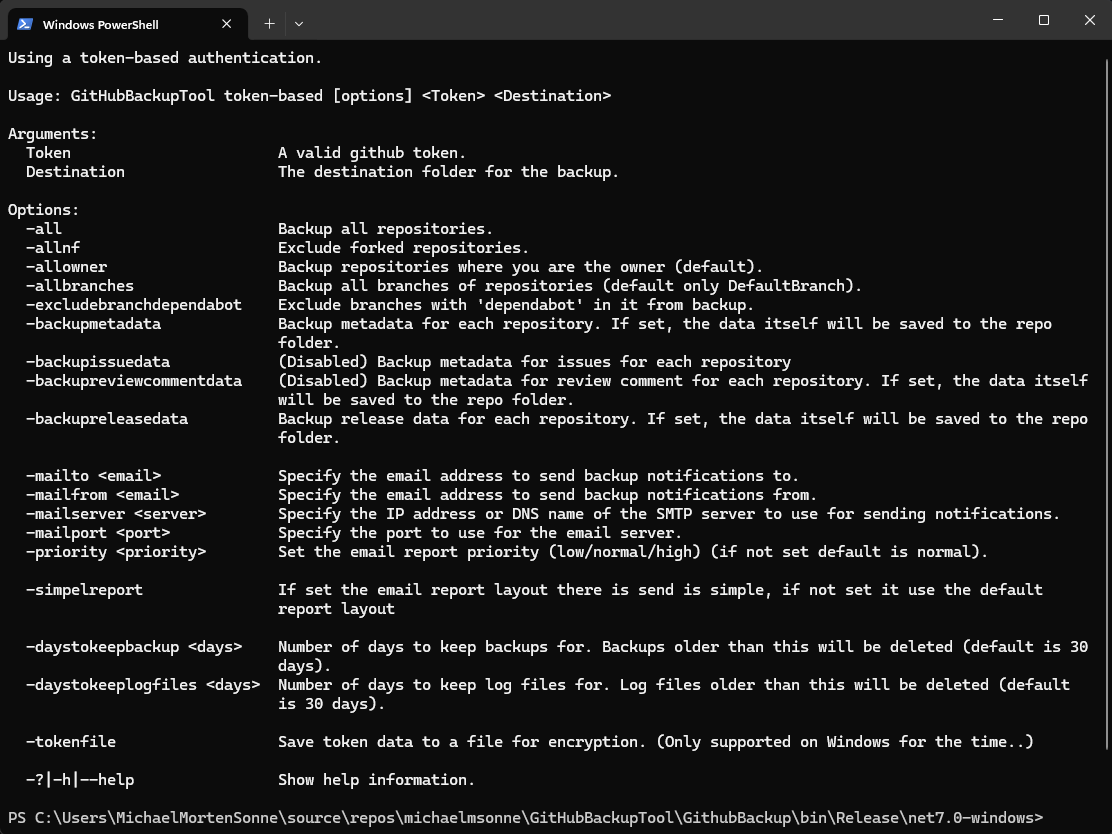
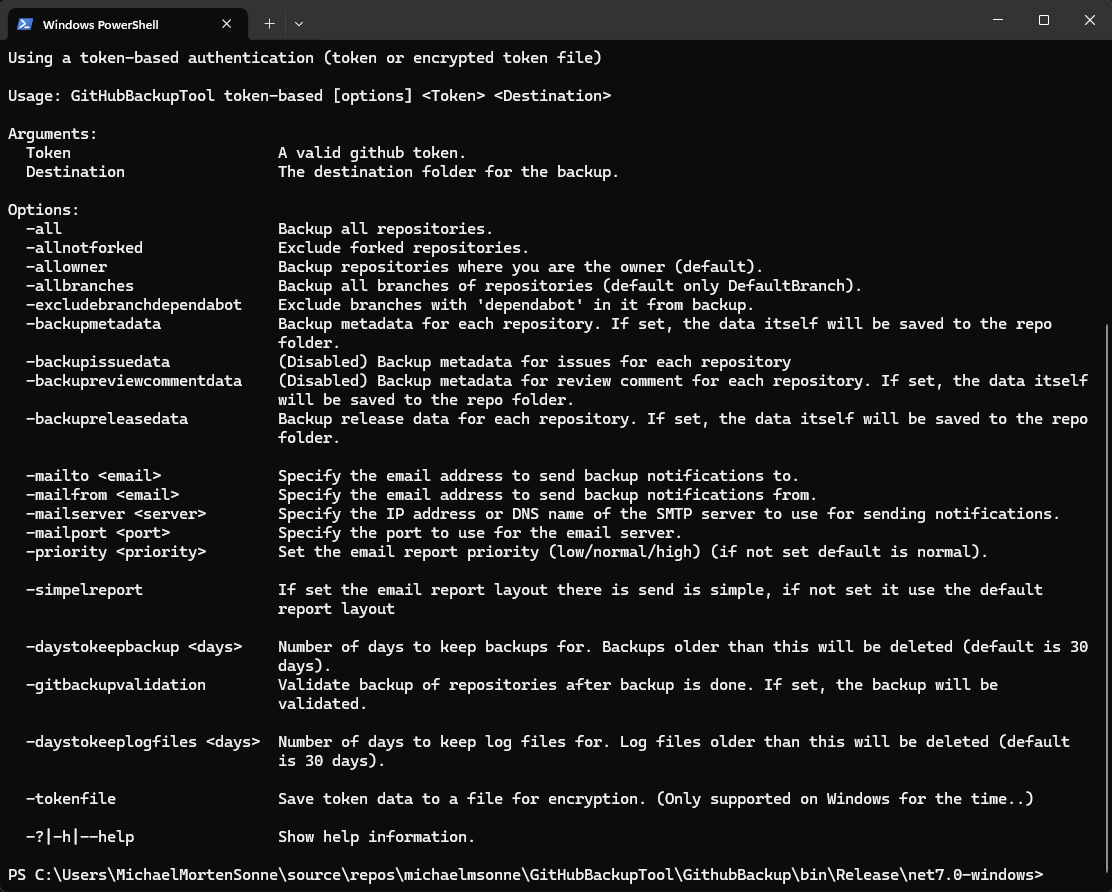
Update picture and typo in about arguments

diff --git a/GithubBackup/Commands/TokenSubCommand.cs b/GithubBackup/Commands/TokenSubCommand.cs
@@ -60,7 +60,7 @@ namespace GithubBackup.Commands
 
             Command = ParentCommand.Command("token-based", (tokenBasedCmd) =>
             {
-                tokenBasedCmd.Description = "Using a token-based authentication.";
+                tokenBasedCmd.Description = "Using a token-based authentication (token or encrypted token file)";
                 tokenBasedCmd.UnrecognizedArgumentHandling = UnrecognizedArgumentHandling.Throw;
 
                 #region Set/show arguments used for token-based backup
